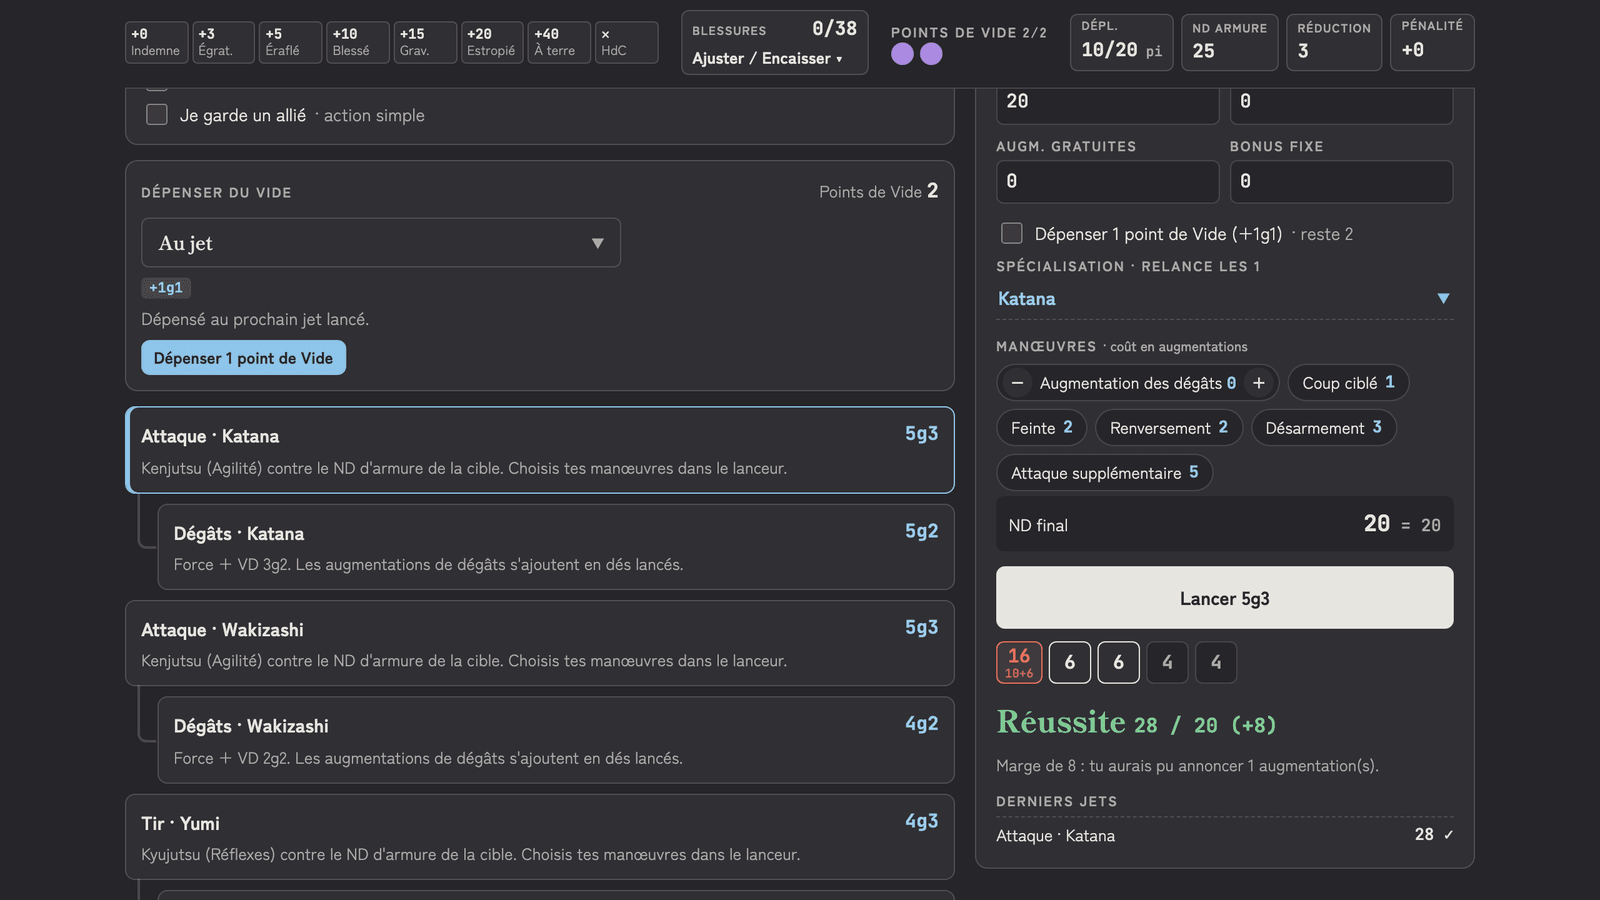
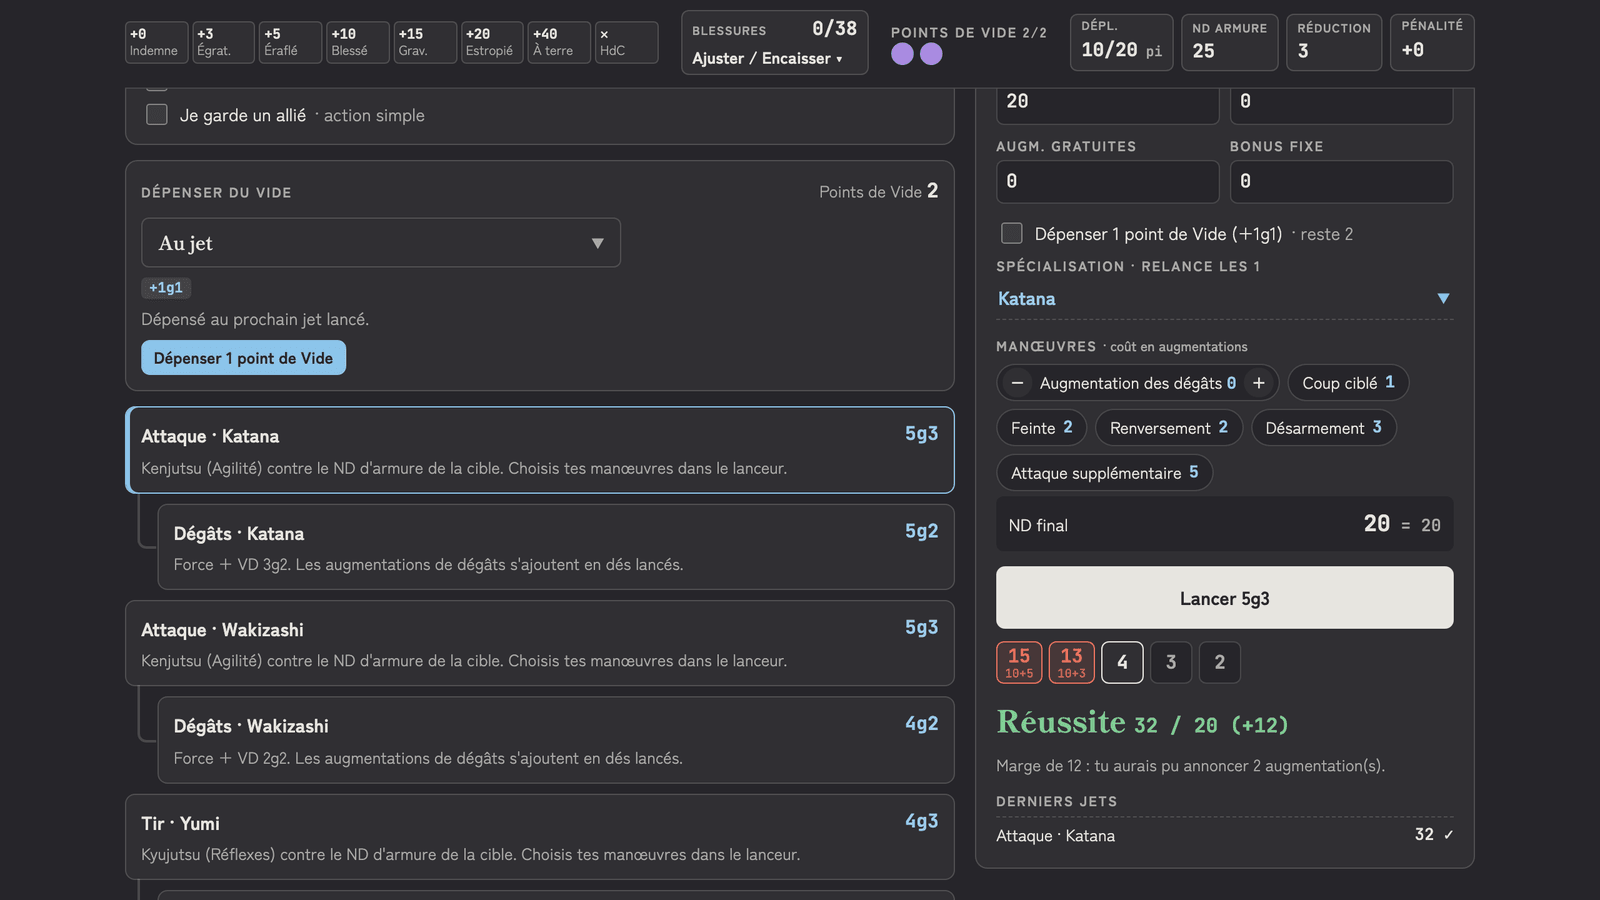
Lot 45 : marge de la piste pour Chromium Linux (padding 3 px, letter-spacing)

diff --git a/src/ui/styles.css b/src/ui/styles.css
@@ -111,7 +111,7 @@ button.seal:focus-visible{outline-offset:4px}
 .armedit{grid-column:1/-1;display:grid;grid-template-columns:2fr 1fr 1fr;gap:8px;background:var(--surface-2);box-shadow:var(--shadow);border:1px solid var(--accent);border-radius:8px;padding:10px;margin-top:6px}
 @media (max-width:720px){.armedit{grid-template-columns:1fr 1fr}.armedit label:first-child{grid-column:1/-1}.cstats .ct{text-align:center;padding:4px 4px}}
 .wtrack{display:grid;grid-template-columns:repeat(8,minmax(0,1fr));gap:3px;min-width:0}
-.wl{background:var(--surface);border:1px solid var(--line);border-radius:4px;padding:3px 4px;font-size:10.5px;line-height:1.2;min-width:0;overflow:hidden}
+.wl{background:var(--surface);border:1px solid var(--line);border-radius:4px;padding:3px;font-size:10.5px;letter-spacing:-.01em;line-height:1.2;min-width:0;overflow:hidden}
 .wl b{display:block;font-family:var(--f-mono);font-size:11px}
 .wl span{display:block;white-space:nowrap;overflow:hidden;text-overflow:ellipsis;color:var(--muted)}
 .wl.past{background:var(--sunk);opacity:.55}

diff --git a/spec/annexes/45-barre-etat.md b/spec/annexes/45-barre-etat.md
@@ -42,6 +42,7 @@ Aucune troncature aux largeurs où la piste est visible. Entre 721 et 1179 px, l
 
 ### 45.6 Écarts
 
-- **Palier 721–1179 px (ajouté).** Le handoff prévoyait des retouches CSS minimes à 1024 px. Mesuré : la piste n'y disposait que de 323 px, cases de 28 px utiles, alors qu'« Indemne » demande 39 px, « Estropié » 38 et « À terre » 33. Le padding à 3 px et le `letter-spacing` font gagner 4 px au plus. Décision de Nelson (03/11/2026) : la piste prend sa propre ligne à ces largeurs. La barre collante y gagne une ligne (environ 40 px). Padding et police de `.wl` inchangés.
+- **Palier 721–1179 px (ajouté).** Le handoff prévoyait des retouches CSS minimes à 1024 px. Mesuré : la piste n'y disposait que de 323 px, cases de 28 px utiles, alors qu'« Indemne » demande 39 px, « Estropié » 38 et « À terre » 33. Le padding à 3 px et le `letter-spacing` font gagner 4 px au plus. Décision de Nelson (03/11/2026) : la piste prend sa propre ligne à ces largeurs. La barre collante y gagne une ligne (environ 40 px).
 - **Piste dépliée en 4 colonnes sous 720 px (sans objet).** Depuis l'annexe E.9 S3, la piste est masquée sous 721 px et remplacée par le détail ligne par ligne ; la règle 4 colonnes de `styles.css` n'a plus d'effet. Le test E2E à 700 px vérifie donc le détail. Le cas M3 de §10.5 (« la piste (2 × 4) ») décrit l'ancien rendu et reste à reformuler.
+- **Marge sous Linux (CI).** Dès 1180 px, les cases ont 41 px utiles : « Indemne » y tenait au pixel près sous macOS mais dépassait de 1 à 2 px sous Chromium Linux. Retouche prévue en 45.3 : padding horizontal de `.wl` à 3 px et `letter-spacing: -.01em`, police inchangée (10,5 px).
 - **Hauteur à 390 px.** La piste y est masquée : les abréviations ne peuvent pas changer la hauteur. Le test vérifie que la piste reste masquée plutôt qu'une hauteur en pixels, qui varie selon le navigateur.
